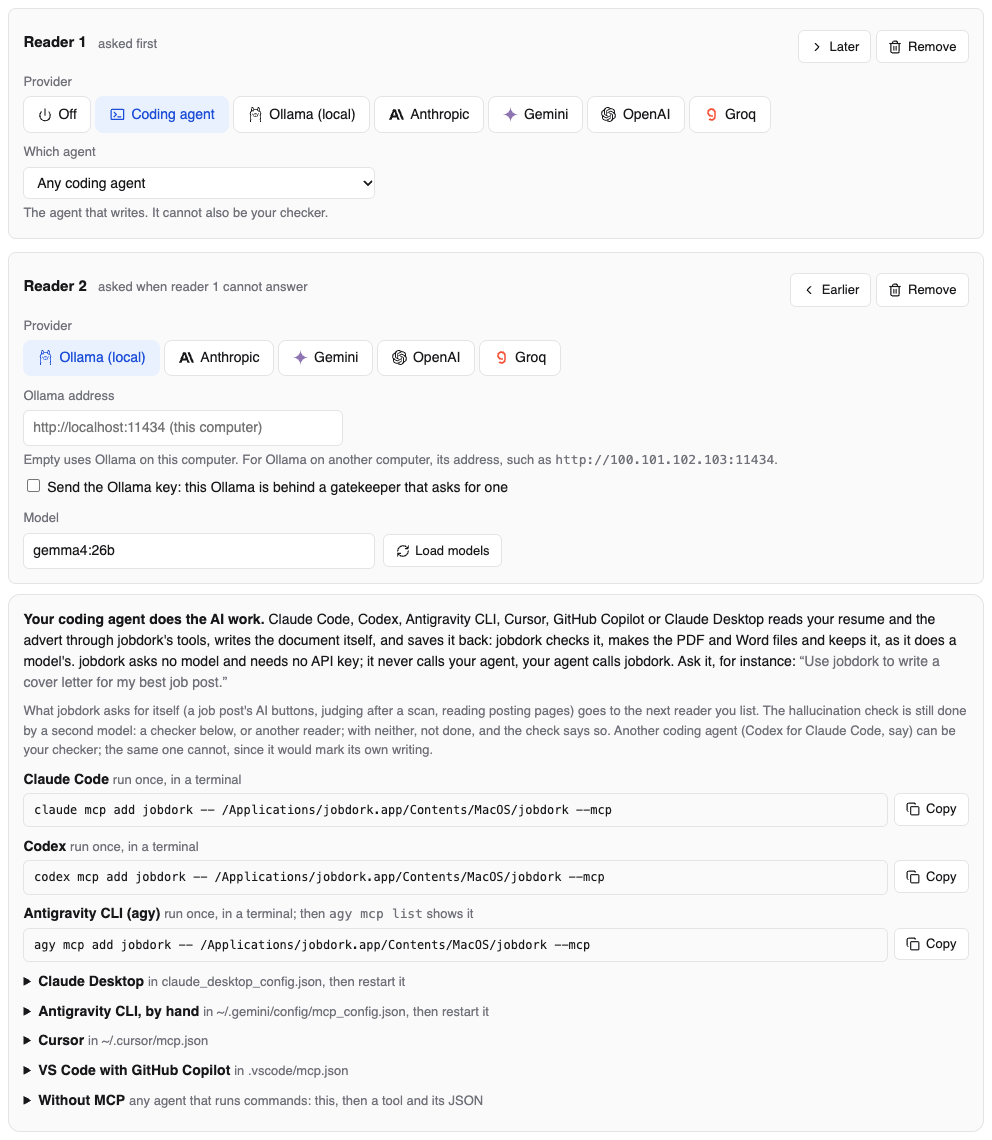
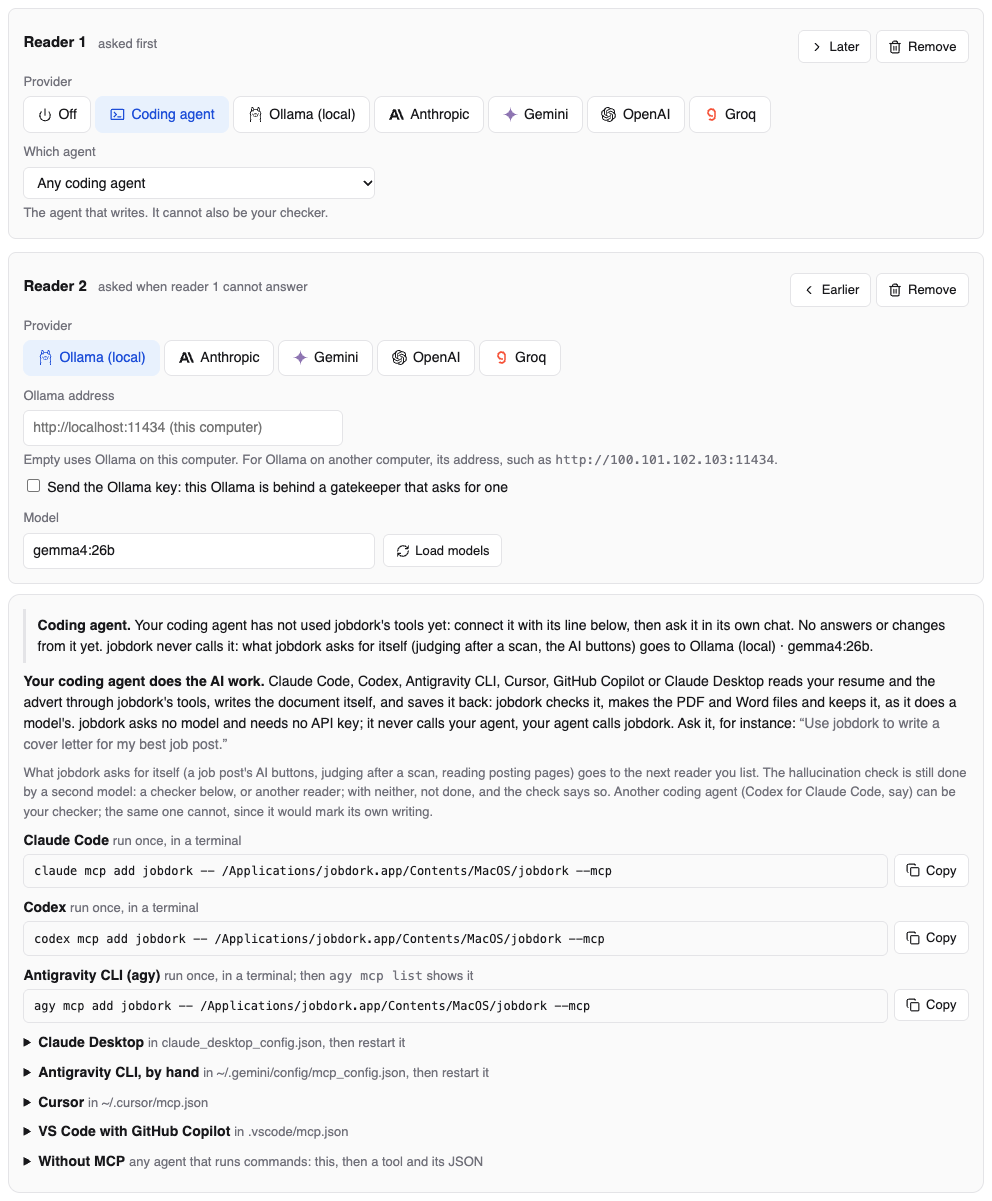
feat: what your coding agent has done, on the AI page and the Dashboard (see docs/changes/agent-visibility.md)

diff --git a/jobdork/data/dashboard.html b/jobdork/data/dashboard.html
@@ -737,6 +737,7 @@ main > section#view-ask{max-width:48rem;margin:0 auto;display:flex;flex-directio
 .agentbox{border:1px solid var(--line);background:var(--card);border-radius:12px;
   padding:.7rem .9rem;margin:-.2rem 0 .8rem;font-size:.875rem;line-height:1.5}
 .agentbox p{margin:.2rem 0 .5rem}
+.agentnote{border-left:3px solid var(--line);padding:.35rem .7rem;margin:.3rem 0 .7rem;line-height:1.5}
 .agentcmd{margin:.55rem 0}
 .agentcmd summary{cursor:pointer}
 .agentcmd .cmdrow{display:flex;gap:.4rem;align-items:flex-start;margin-top:.2rem}
@@ -1202,6 +1203,7 @@ main > #view-setup.welcome{max-width:46rem;margin-top:3.5rem}
       <div class="panel-head u-head"><h3>AI usage</h3>
         <span class="sub">Every call to every provider, from this machine</span>
         <label class="u-pick">Provider <select id="u-provider"></select></label></div>
+      <p class="hint agentnote" id="u-agent" role="status" hidden></p>
       <div class="m-grid">
         <div class="panel">
           <div class="panel-head"><h3>Total AI requests</h3>
@@ -4873,7 +4875,34 @@ function fillPick(id, options, current, all) {
 $('u-provider').onchange = e => { uProvider = e.target.value; drawUsage(mData); };
 $('u-model').onchange = e => { uModel = e.target.value; drawUsage(mData); };
 
+// What the coding agent has done (api.agent_activity), in a sentence or
+// three. jobdork never calls an agent, so one listed but never connected or
+// never asked showed nothing anywhere, which looked the same as working.
+function agentStatus(a, onAiPage = false) {
+  if (!a) return '';
+  const when = t => esc(shortDay(String(t || '')));
+  const plural = (k, one, many) => `${n(k)} ${k === 1 ? one : many}`;
+  const seen = a.seen
+    ? `${esc(a.seen.agent || 'Your coding agent')} last used jobdork's tools ${when(a.seen.at)} (${esc(a.seen.tool || '')}).`
+    : `Your coding agent has not used jobdork's tools yet: connect it with its line ${onAiPage ? 'below' : 'on the AI page'}, then ask it in its own chat.`;
+  const did = a.answers || a.changes
+    ? ` ${plural(a.answers, 'answer', 'answers')}${a.last_answer ? `, the last ${when(a.last_answer)}` : ''};
+       ${plural(a.changes, 'change', 'changes')} saved${a.last_change ? `, the last ${when(a.last_change)}` : ''}.`
+    : ' No answers or changes from it yet.';
+  const instead = a.reader
+    ? ` jobdork never calls it: what jobdork asks for itself (judging after a scan, the AI buttons) goes to
+       ${a.instead ? esc(a.instead) : 'no other reader, so those buttons say what to ask your agent'}.`
+    : '';
+  const wait = a.checker && a.checks_waiting
+    ? ` ${plural(a.checks_waiting, 'check waits', 'checks wait')} for it: ask it <q>Check jobdork's AI writing.</q>`
+    : '';
+  return `<b>${esc(ai && ai.agent_label || 'Coding agent')}.</b> ${seen}${did}${instead}${wait}`;
+}
+
 function drawUsage(d) {
+  const agentNote = $('u-agent');
+  agentNote.hidden = !d.agent;
+  agentNote.innerHTML = agentStatus(d.agent);
   const u = d.usage;
   uProvider = fillPick('u-provider', [...new Set(u.models.map(m => m.provider).filter(Boolean))],
                    uProvider, 'All providers');
@@ -5459,7 +5488,8 @@ function drawAgentSetup(as) {
   // The apps set up from a file, folded: each is a screenful.
   const folded = (title, where, text) => `<details class="agentcmd"><summary><b>${title}</b>
     <span class="hint">${where}</span></summary>${row(text)}</details>`;
-  box.innerHTML = (as === 'checker' ? `<p><b>${named('checkers')} checks the AI's writing.</b> What your
+  box.innerHTML = (ai.agent_activity ? `<p class="agentnote" role="status">${agentStatus(ai.agent_activity, true)}</p>` : '') +
+    (as === 'checker' ? `<p><b>${named('checkers')} checks the AI's writing.</b> What your
       readers judge, write and suggest waits for its claim check: Claude Code, Codex, Antigravity CLI,
       Cursor, GitHub Copilot or Claude Desktop reads each claim and its sources through jobdork's tools
       and says which are supported, and jobdork checks every quote it gives, as it does a model's.

diff --git a/tests/test_agent.py b/tests/test_agent.py
@@ -533,6 +533,63 @@ def test_the_agents_answers_are_left_out_of_the_ai_timings():
     assert timing["p50"] == 12.0, "the agent's 0 seconds would pull it down"
 
 
+
+def test_a_listed_agent_says_whether_it_was_ever_connected_and_what_it_did():
+    """2026-11-10: an agent listed but never connected, or never asked,
+    showed nothing anywhere, which looked the same as working."""
+    with _setup() as (cfg, uid, _):
+        cfg.llm = Llm(provider="ollama", model="m",
+                      readers=[Reader("ollama", "m"), Reader(llm.AGENT)])
+        before = api.agent_activity(cfg)
+        assert before["reader"] and not before["checker"]
+        assert before["seen"] is None and before["answers"] == before["changes"] == 0
+        assert before["instead"] == "Ollama (local) · m", "who answers jobdork's own calls"
+        agent.call(cfg, "overview", {"_client": "claude-code"})
+        seen = api.agent_activity(cfg)["seen"]
+        assert seen["agent"] == "Coding agent · Claude Code" and seen["tool"] == "overview"
+        assert seen["at"][:4].isdigit()
+        # Saved with no model listed, so nothing here asks a real one.
+        cfg.llm = Llm()
+        agent.call(cfg, "save_document", {"uid": uid, "kind": "cover_letter", "answer": LETTER,
+                                          "_client": "codex"})
+        cfg.llm = Llm(provider="ollama", model="m",
+                      readers=[Reader("ollama", "m")], checkers=[Reader(llm.AGENT)])
+        after = api.agent_activity(cfg)
+        assert after["checker"] and not after["reader"]
+        assert after["answers"] == 1 and after["changes"] == 1 and after["last_answer"]
+        assert after["seen"]["tool"] == "save_document"
+        assert api.metrics(cfg)["agent"]["answers"] == 1, "on the Dashboard too"
+        assert api.llm_state(cfg)["agent_activity"]["changes"] == 1, "and on the AI page"
+        cfg.llm = Llm(provider="ollama", model="m", readers=[Reader("ollama", "m")])
+        assert api.agent_activity(cfg) is None and api.metrics(cfg)["agent"] is None
+
+
+def test_a_run_says_once_that_the_listed_agent_was_passed_over():
+    """jobdork never calls an agent; a scan whose judging went to a model
+    now says so, once, instead of the agent looking unused for no reason."""
+    from jobdork.core import telemetry
+
+    with _setup() as (cfg, _uid, _):
+        cfg.llm = Llm(provider="ollama", model="m",
+                      readers=[Reader("ollama", "m"), Reader(llm.AGENT)])
+        settings = llm.Settings.from_config(cfg)
+        real = llm._call_one
+        # lambda: stands in for the Ollama reader, so nothing goes online.
+        llm._call_one = lambda *a, **k: {"ok": True}
+        try:
+            llm.complete_json(settings, "s", "u", {"type": "object"}, purpose="judge")
+            with telemetry.job(cfg.db_path, "scan", "terminal") as rec:
+                for _ in range(3):
+                    llm.complete_json(settings, "s", "u", {"type": "object"}, purpose="judge")
+                rec.flush(force=True)
+        finally:
+            llm._call_one = real
+        with Store(cfg.db_path) as store:
+            lines = [r[0] for r in store.conn.execute("SELECT text FROM activity_events")]
+    told = [t for t in lines if "never calls it" in t]
+    assert len(told) == 1, lines
+    assert "judge and the rest of this run went to Ollama (local) · m" in told[0], told[0]
+
 # ── a coding agent as the checker ─────────────────────────────────────────────
 
 _AGENT_CHECKS = Llm(provider="ollama", model="m", readers=[Reader("ollama", "m")],

diff --git a/jobdork/web/api.py b/jobdork/web/api.py
@@ -1730,6 +1730,9 @@ def metrics(cfg, days: int = 30) -> dict:
 
     return {
         "days": days, "since": since[:10], "tools": list(TOOLS),
+        # A coding agent's activity, beside the models' usage: it is never
+        # called, so it shows here only when it was asked (agent_activity).
+        "agent": agent_activity(cfg),
         "runs": {"total": len(runs), "errored": len(errored),
                  "error_rate": len(errored) / len(runs) if runs else None,
                  "by_state": {s: sum(1 for r in errored if r["state"] == s)
@@ -2231,6 +2234,52 @@ def agent_only(cfg) -> bool:
         else cfg.llm.provider == llm.AGENT
 
 
+def agent_activity(cfg) -> dict | None:
+    """What the coding agent has done, for the AI page and the Dashboard;
+    None when no agent is listed.
+
+    jobdork never calls a coding agent: it answers what you ask it in its own
+    chat. So a listed agent that was never asked, or never connected, did
+    nothing and showed nothing, which looked the same as working
+    (2026-11-10). This says when it last used jobdork's tools (`seen`), how
+    many answers it gave (`answers`, counted with the model calls), how many
+    changes it made (`changes`, its runs) and what waits for its check.
+    """
+    from ..ai import llm
+    from ..db.store import Store
+    from . import agent as agent_mod
+
+    reader = any(r.provider == llm.AGENT for r in cfg.llm.readers) or (
+        not cfg.llm.readers and cfg.llm.provider == llm.AGENT)
+    checker = any(c.provider == llm.AGENT for c in cfg.llm.checkers)
+    if not (reader or checker):
+        return None
+    settings = llm.Settings.from_config(cfg)
+    with Store(cfg.db_path) as store:
+        try:
+            seen = json.loads(store.get_meta(agent_mod.SEEN_KEY) or "null")
+        except ValueError:
+            seen = None
+        answers, last_answer = store.conn.execute(
+            "SELECT COUNT(*), MAX(at) FROM llm_calls WHERE model LIKE ?",
+            (llm.AGENT_LABEL + "%",)).fetchone()
+        changes, last_change = store.conn.execute(
+            "SELECT COUNT(*), MAX(started_at) FROM activity WHERE origin = ?",
+            (agent_mod.ORIGIN,)).fetchone()
+        waiting = len(store.waiting_checks())
+    return {
+        "reader": reader, "checker": checker,
+        "seen": seen if isinstance(seen, dict) else None,
+        "answers": answers or 0, "last_answer": last_answer or "",
+        "changes": changes or 0, "last_change": last_change or "",
+        "checks_waiting": waiting if checker else 0,
+        # Who answers what jobdork asks for itself (judging, buttons): the
+        # first other reader ready to, or "" when none is.
+        "instead": next((r.label for r in settings.chain()
+                         if r.provider != llm.AGENT and not r.problem()), ""),
+    }
+
+
 def refuse_in_agent_mode(cfg, ask: str) -> None:
     """A job that would ask a model, refused at once when the coding agent
     is the only reader, with what to ask the agent instead. With other
@@ -2427,6 +2476,7 @@ def llm_state(cfg) -> dict:
         # The agents a Coding agent line can name (its `model`).
         "agents": llm.AGENTS,
         "agent_setup": agent_setup(cfg),
+        "agent_activity": agent_activity(cfg),
     }
 
 

diff --git a/jobdork/ai/llm.py b/jobdork/ai/llm.py
@@ -458,12 +458,34 @@ def complete_json(settings: Settings, system: str, user: str,
                 log.warning("AI reader %s could not answer; asking the next one", reader.label)
             continue
         settings.answered = reader
+        if any(r.provider == AGENT for r in settings.chain()):
+            _agent_passed_over(reader.label, purpose)
         return answer
     if agent is not None and not failed:
         from_agent(system, user, schema, purpose)      # keeps the brief, raises AgentBrief
     if len(failed) == 1:
         raise LLMError(failed[0].split(": ", 1)[1])
     raise LLMError("no AI reader could answer. " + "; ".join(failed))
+
+
+# The runs already told that the coding agent was passed over: once a run.
+_told_runs: set[int] = set()
+
+
+def _agent_passed_over(label: str, purpose: str) -> None:
+    """Say once in a run (a scan, say) that the coding agent listed as a
+    reader was not asked: jobdork never calls an agent, and a run that went
+    to a model said nothing about it, so the agent looked unused for no
+    reason given (2026-11-10)."""
+    from ..core import telemetry
+
+    run = telemetry.current_id()
+    if run is None or run in _told_runs:
+        return
+    _told_runs.add(run)
+    telemetry.line(f"{AGENT_LABEL} is listed as a reader, but jobdork never calls it: "
+                   f"{purpose or 'this'} and the rest of this run went to {label}. "
+                   "It answers what you ask it in its own chat.")
 
 
 # ── a coding agent as the writer ──────────────────────────────────────────────

diff --git a/jobdork/web/agent.py b/jobdork/web/agent.py
@@ -241,6 +241,28 @@ def _store(cfg):
     return Store(cfg.db_path)
 
 
+# When a coding agent last used jobdork's tools, which agent and which tool.
+# Its tools run in a process of its own (`jobdork mcp`), so this is kept in
+# the database, where the AI page and the Dashboard read it to say whether
+# the agent is connected at all (api.agent_activity). Listed but never seen
+# looked the same as working (2026-11-10).
+SEEN_KEY = "coding_agent_seen"
+
+
+def _seen(cfg, name: str, args: dict) -> None:
+    import json
+    import sqlite3
+    import time
+
+    try:
+        with _store(cfg) as store:
+            store.set_meta(SEEN_KEY, json.dumps({
+                "at": time.strftime("%Y-%m-%dT%H:%M:%S"),
+                "agent": _who(args), "tool": name}))
+    except (sqlite3.Error, OSError):
+        pass                    # never stops the tool the agent asked for
+
+
 def _make(cfg, store, kind: str, uid: str, text: str = ""):
     """Run the writer for `kind`: up to the model's call, or past it with the
     queued answer."""
@@ -781,6 +803,7 @@ def call(cfg, name: str, args: dict | None) -> dict:
     missing = [k for k in tool.schema["required"] if args.get(k) in (None, "")]
     if missing:
         raise ToolError(f"{name} needs {', '.join(missing)}")
+    _seen(cfg, name, args)
     if name not in WRITES:
         return tool.run(cfg, args)
     # Every change an agent makes is a run on the Dashboard, from the coding

diff --git a/docs/changes/agent-visibility.md b/docs/changes/agent-visibility.md
@@ -1,0 +1,29 @@
+## Added — 2026-11-10 — What your coding agent has done, on the AI page and the Dashboard
+
+jobdork never calls a coding agent: it answers what you ask it in its own
+chat, through jobdork's tools. So an agent listed as a reader or checker but
+never connected, or connected and never asked, did nothing and showed
+nothing anywhere, which looked the same as an agent that worked. Listed as
+Reader 2 after a model, it was never reached at all, and nothing said so.
+
+Now the AI page's coding-agent box and the Dashboard, above AI usage, say:
+
+- when your agent last used jobdork's tools, which agent and which tool,
+  or that it has not yet (so it is not connected);
+- how many answers and changes it has saved, and the last of each;
+- who answers what jobdork asks for itself (judging after a scan, the AI
+  buttons) instead of the agent;
+- how many checks wait for it, when it is a checker, with what to ask it.
+
+A run whose model calls passed over a listed agent (a scan's judging, say)
+says so once in its log: "Coding agent is listed as a reader, but jobdork
+never calls it: judge and the rest of this run went to …".
+
+The agent's tools run in a process of their own, so the last time it used
+them is kept in the database (`meta`, `coding_agent_seen`, written by
+`web/agent.py` on every tool call); `api.agent_activity` reads it with the
+agent's answers (`llm_calls`) and changes (`activity`) for `/api/llm` and
+`/api/metrics`. The guide's AI and Dashboard pages say what the note means,
+and the AI page's coding-agent picture shows it. tests/test_agent.py covers
+an agent never seen, then seen, its answers and changes counted on both
+pages, nothing shown with no agent listed, and the run's note said once.

diff --git a/guide/docs/ai.md b/guide/docs/ai.md
@@ -57,8 +57,15 @@ Code cannot do both. Other readers can still be added after it (below).
 
 ![Coding agent chosen](images/ai-agent.png)
 
+The note at the top of the box says what your agent has done so far: when
+it last used jobdork's tools (or that it has not yet, so it is not
+connected), how many answers and changes it has saved, which model answers
+what jobdork asks for itself instead, and how many checks wait for it. The
+same note is on the [Dashboard](dashboard.md#ai-usage), above AI usage.
+
 Your agent calls jobdork, through jobdork's tools; jobdork does not call
-it by itself. (In the desktop app, the [Ask](ask.md) page sends Claude Code a
+it by itself. A scan whose judging went to another reader says so once in
+its log on the Dashboard, so an agent that did nothing is never a mystery. (In the desktop app, the [Ask](ask.md) page sends Claude Code a
 question you type there, and only one about your job search.) Ask it, in its
 own chat, for instance *"Use jobdork to write a cover
 letter for my best job post"*. It then:

diff --git a/guide/docs/dashboard.md b/guide/docs/dashboard.md
@@ -91,6 +91,13 @@ The charts below them:
 Every call jobdork made to an AI model, local or on your keys, in the
 period chosen above. **Provider** narrows all of it to one provider.
 
+With a [coding agent](ai.md#coding-agent) among your readers or checkers,
+a note above the charts says when it last used jobdork's tools (or that it
+has not yet), how many answers and changes it saved, who answers what
+jobdork asks for itself, and how many checks wait for it. jobdork never
+calls your agent, so it shows up here only once you ask it something in
+its own chat.
+
 - **Total AI requests**: calls per day, and the share answered as a line.
 - **AI errors, by kind**: the calls that failed, per day: rate limited
   (429), key refused, provider error (5xx), timed out, could not reach,
